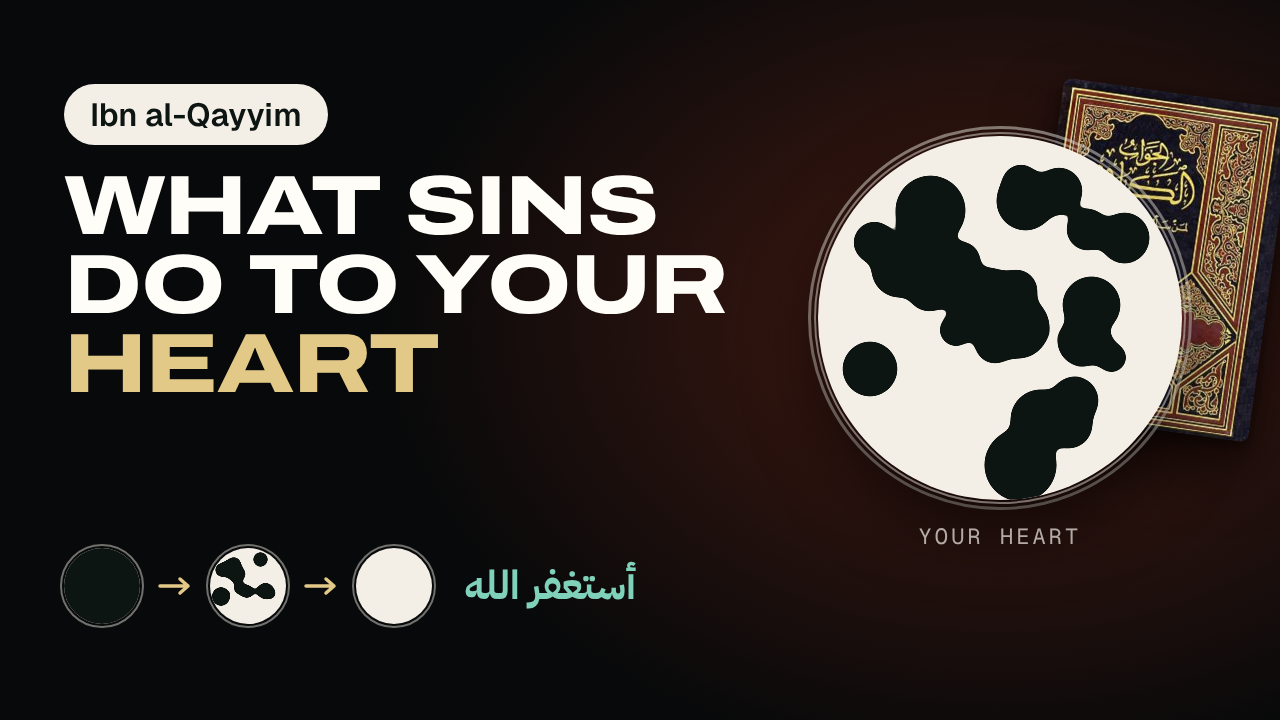
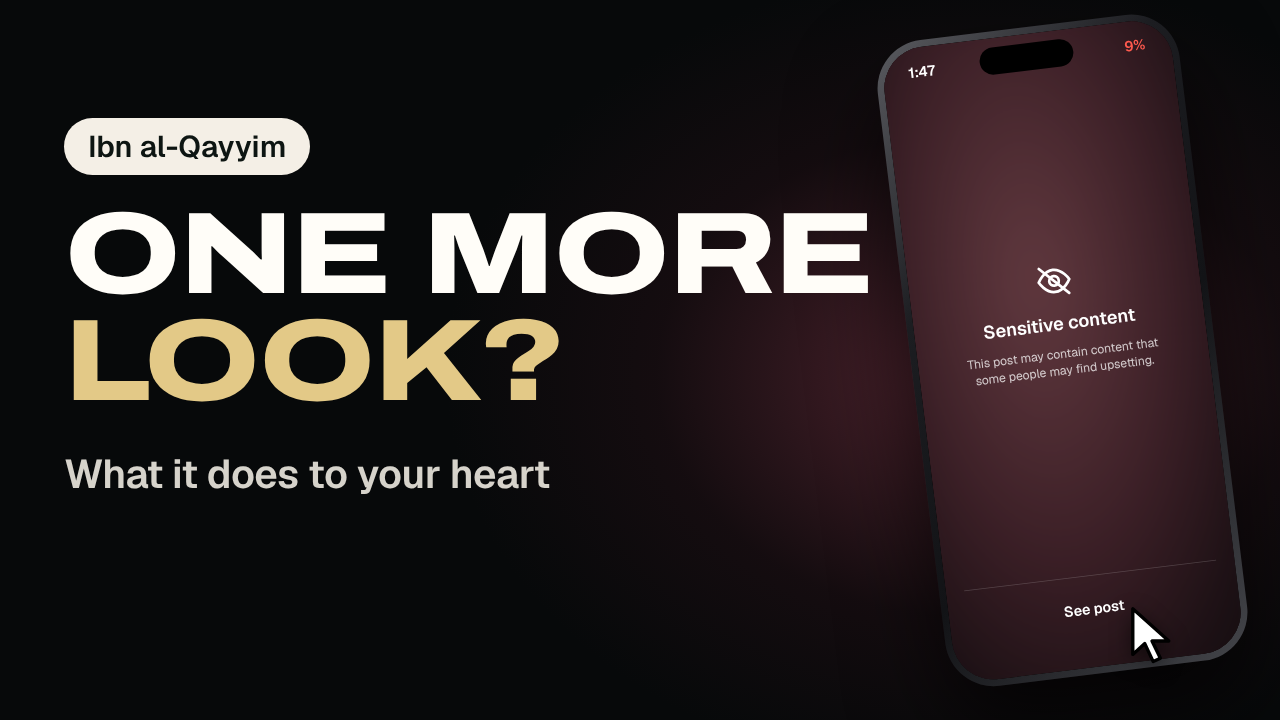
Lesson 2: new thumbnails ("One more look?" phone, "One sin. One spot." alternative)
Claude-Session: https://claude.ai/code/session_01MwErq7sJkoufLuD6bAktcb

diff --git a/src/lesson2/Thumb2.tsx b/src/lesson2/Thumb2.tsx
@@ -1,124 +1,94 @@
 import React from "react";
-import { AbsoluteFill, Img, staticFile } from "remotion";
+import { AbsoluteFill } from "remotion";
 import { C, F } from "../lib/theme";
-import { GooDefs } from "../ui/kit";
 import { NIGHT } from "../ui/Lids";
-import { HEART_C, HEART_R, SPOTS } from "./Heart";
+import { Post3 } from "./Night";
 
-/**
- * Lesson 2 thumbnail, 1280×720: the promise left, the stained heart (the film's own spots) right with the
- * real book behind it, and the way back along the bottom: covered → stained → polished.
- */
-const HC = { x: 1000, y: 318, r: 182 };
+/** Lesson 2 thumbnails, 1280×720. "look": the 1:47 a.m. phone. "spot": one sin, one black spot. */
+const WORD: React.CSSProperties = {
+  fontFamily: F.word,
+  fontWeight: 800,
+  fontVariationSettings: "'wdth' 125, 'wght' 800",
+  lineHeight: 0.92,
+  letterSpacing: "-0.02em",
+  color: C.white,
+};
 
-const Disc: React.FC<{ x: number; y: number; r: number; spots: number; full?: boolean; id: string; size?: number }> = ({ x, y, r, spots, full, id, size = 1 }) => {
-  const s = r / HEART_R;
+const Pill: React.FC<{ children: React.ReactNode }> = ({ children }) => (
+  <div style={{ display: "inline-block", background: C.paper, color: C.ink, fontFamily: F.ui, fontWeight: 600, fontSize: 30, padding: "9px 24px", borderRadius: 999 }}>{children}</div>
+);
+
+/** the film's phone: titanium frame, island, status bar at 1:47 with 9 %, the sensitive-content screen */
+const Phone: React.FC = () => {
+  const w = 400;
+  const h = 856;
+  const bez = 9;
   return (
-    <>
-    <div style={{ position: "absolute", left: x - r - 4, top: y - r - 4, width: r * 2 + 8, height: r * 2 + 8, borderRadius: r + 4, border: "2px solid rgba(244,239,230,0.45)", boxSizing: "border-box" }} />
-    <div style={{ position: "absolute", left: x - r, top: y - r, width: r * 2, height: r * 2, borderRadius: r, background: C.paper, overflow: "hidden" }}>
-      <GooDefs id={id} blur={3 + 3 * s} />
-      <div style={{ position: "absolute", inset: 0, filter: `url(#${id})` }}>
-        {full ? (
-          <div style={{ position: "absolute", inset: 0, borderRadius: r, background: C.ink }} />
-        ) : (
-          SPOTS.slice(0, spots).map((p, i) => {
-            const cx = r + (p.x - HEART_C.x) * s;
-            const cy = r + (p.y - HEART_C.y) * s;
-            const rr = p.r * s * size;
-            return <div key={i} style={{ position: "absolute", left: cx - rr, top: cy - rr, width: rr * 2, height: rr * 2, borderRadius: rr, background: C.ink }} />;
-          })
-        )}
+    <div style={{ position: "relative", width: w, height: h, borderRadius: 64, background: "linear-gradient(135deg, #5A5B60, #1C1D21 30%, #121316 60%, #44454A)", boxShadow: "0 60px 120px rgba(0,0,0,0.7)" }}>
+      <div style={{ position: "absolute", inset: bez, borderRadius: 64 - bez, overflow: "hidden", background: "#000" }}>
+        <Post3 />
+        <div style={{ position: "absolute", left: 0, right: 0, top: 0, height: 56, display: "flex", alignItems: "center", justifyContent: "space-between", padding: "8px 34px 0", fontFamily: F.ui, fontWeight: 600, fontSize: 19, color: "#fff" }}>
+          <span>1:47</span>
+          <span style={{ color: "#FF5A4E" }}>9%</span>
+        </div>
+        <div style={{ position: "absolute", left: w / 2 - bez - 62, top: 12, width: 124, height: 36, borderRadius: 18, background: "#000" }} />
       </div>
     </div>
-    </>
   );
 };
 
-export const Thumb2: React.FC = () => (
+const Cursor: React.FC<{ x: number; y: number; s?: number }> = ({ x, y, s = 1 }) => (
+  <svg style={{ position: "absolute", left: x, top: y, transform: `scale(${s})`, transformOrigin: "0 0", filter: "drop-shadow(0 4px 8px rgba(0,0,0,0.5))" }} width={40} height={52} viewBox="0 0 20 26">
+    <path d="M2 2 L2 21 L7 16.5 L10.5 24 L13.5 22.6 L10 15.4 L17 15.4 Z" fill="#fff" stroke="#000" strokeWidth={1.4} strokeLinejoin="round" />
+  </svg>
+);
+
+const Look: React.FC = () => (
   <AbsoluteFill style={{ background: NIGHT, overflow: "hidden" }}>
-    {/* the room at night: a low warm light from the right, like the screen-lit room in the film */}
-    <div style={{ position: "absolute", inset: 0, background: "radial-gradient(ellipse 70% 90% at 78% 45%, rgba(120,40,24,0.55), rgba(7,9,10,0) 70%)" }} />
-
-    {/* the real book behind the heart */}
-    <Img
-      src={staticFile("img/al-jawab-al-kafi.jpg")}
-      style={{
-        position: "absolute",
-        left: 1040,
-        top: 92,
-        width: 232,
-        height: 232 * 1.45,
-        objectFit: "cover",
-        borderRadius: 8,
-        transform: "rotate(8deg)",
-        boxShadow: "0 30px 60px rgba(0,0,0,0.6), 0 6px 14px rgba(0,0,0,0.4)",
-      }}
-    />
-
-    {/* the stained heart */}
-    <div style={{ position: "absolute", left: HC.x - HC.r - 10, top: HC.y - HC.r - 10, width: HC.r * 2 + 20, height: HC.r * 2 + 20, borderRadius: HC.r + 10, border: "3px solid rgba(244,239,230,0.5)", boxSizing: "border-box" }} />
-    <div style={{ position: "absolute", left: HC.x - HC.r, top: HC.y - HC.r, width: HC.r * 2, height: HC.r * 2, borderRadius: HC.r, boxShadow: "0 30px 70px rgba(0,0,0,0.6)" }} />
-    <Disc x={HC.x} y={HC.y} r={HC.r} spots={30} size={0.62} id="th-main" />
-    <div style={{ position: "absolute", left: HC.x - 200, width: 400, top: HC.y + HC.r + 22, textAlign: "center", fontFamily: F.mono, fontSize: 22, letterSpacing: "0.14em", color: "rgba(244,239,230,0.7)" }}>
-      YOUR HEART
+    {/* the screen lights the room */}
+    <div style={{ position: "absolute", inset: 0, background: "radial-gradient(ellipse 55% 75% at 76% 52%, rgba(150,62,82,0.5), rgba(60,22,32,0.25) 45%, rgba(7,9,10,0) 75%)" }} />
+    <div style={{ position: "absolute", left: 872, top: 46, transform: "rotate(-7deg) scale(0.76)", transformOrigin: "0 0" }}>
+      <Phone />
     </div>
+    <Cursor x={1128} y={604} s={1.2} />
 
-    {/* the promise */}
-    <div style={{ position: "absolute", left: 64, top: 84 }}>
-      <div
-        style={{
-          display: "inline-block",
-          background: C.paper,
-          color: C.ink,
-          fontFamily: F.ui,
-          fontWeight: 600,
-          fontSize: 32,
-          padding: "10px 26px",
-          borderRadius: 999,
-        }}
-      >
-        Ibn al-Qayyim
-      </div>
-      <div
-        style={{
-          marginTop: 22,
-          fontFamily: F.word,
-          fontWeight: 800,
-          fontVariationSettings: "'wdth' 125, 'wght' 800",
-          fontSize: 84,
-          lineHeight: 0.94,
-          letterSpacing: "-0.02em",
-          color: C.white,
-        }}
-      >
-        WHAT SINS
+    <div style={{ position: "absolute", left: 64, top: 118 }}>
+      <Pill>Ibn al-Qayyim</Pill>
+      <div style={{ ...WORD, marginTop: 26, fontSize: 116 }}>
+        ONE MORE
         <br />
-        DO TO YOUR
-        <br />
-        <span style={{ color: C.goldSoft }}>HEART</span>
+        <span style={{ color: C.goldSoft }}>LOOK?</span>
       </div>
-    </div>
-
-    {/* the way back: covered → stained → polished */}
-    <div style={{ position: "absolute", left: 64, top: 548, display: "flex", alignItems: "center", gap: 18 }}>
-      {[
-        { spots: 0, full: true },
-        { spots: 12, full: false },
-        { spots: 0, full: false },
-      ].map((d, i) => (
-        <React.Fragment key={i}>
-          {i > 0 && (
-            <svg width={34} height={20} viewBox="0 0 34 20">
-              <path d="M2 10 H30 M22 3 L30 10 L22 17" stroke={C.goldSoft} strokeWidth={3.5} fill="none" strokeLinecap="round" strokeLinejoin="round" />
-            </svg>
-          )}
-          <div style={{ position: "relative", width: 76, height: 76 }}>
-            <Disc x={38} y={38} r={38} spots={d.spots} full={d.full} id={`th-s${i}`} />
-          </div>
-        </React.Fragment>
-      ))}
-      <div style={{ marginLeft: 14, fontFamily: F.ar, fontWeight: 700, fontSize: 40, color: C.mint, lineHeight: 1.6 }}>أستغفر الله</div>
+      <div style={{ marginTop: 34, fontFamily: F.ui, fontWeight: 600, fontSize: 40, color: "rgba(244,239,230,0.88)", letterSpacing: "-0.01em" }}>
+        What it does to your heart
+      </div>
     </div>
   </AbsoluteFill>
 );
+
+const Spot: React.FC = () => {
+  const c = { x: 1036, y: 360, r: 190 };
+  return (
+    <AbsoluteFill style={{ background: NIGHT, overflow: "hidden" }}>
+      <div style={{ position: "absolute", inset: 0, background: "radial-gradient(ellipse 50% 70% at 75% 50%, rgba(244,239,230,0.08), rgba(7,9,10,0) 70%)" }} />
+      <div style={{ position: "absolute", left: c.x - c.r - 14, top: c.y - c.r - 14, width: c.r * 2 + 28, height: c.r * 2 + 28, borderRadius: c.r + 14, border: "3px solid rgba(244,239,230,0.35)", boxSizing: "border-box" }} />
+      <div style={{ position: "absolute", left: c.x - c.r, top: c.y - c.r, width: c.r * 2, height: c.r * 2, borderRadius: c.r, background: C.paper, boxShadow: "0 40px 90px rgba(0,0,0,0.6)" }} />
+      {/* one sin: one black spot */}
+      <div style={{ position: "absolute", left: c.x - 58 - 30, top: c.y + 44 - 30, width: 60, height: 60, borderRadius: 30, background: C.ink }} />
+
+      <div style={{ position: "absolute", left: 64, top: 130 }}>
+        <Pill>The hadith of the black spot</Pill>
+        <div style={{ ...WORD, marginTop: 26, fontSize: 108 }}>
+          ONE SIN.
+          <br />
+          <span style={{ color: C.goldSoft }}>ONE SPOT.</span>
+        </div>
+        <div style={{ marginTop: 34, fontFamily: F.ui, fontWeight: 600, fontSize: 40, color: "rgba(244,239,230,0.88)", letterSpacing: "-0.01em" }}>
+          What sins do to your heart
+        </div>
+      </div>
+    </AbsoluteFill>
+  );
+};
+
+export const Thumb2: React.FC<{ variant: "look" | "spot" }> = ({ variant }) => (variant === "look" ? <Look /> : <Spot />);

diff --git a/src/Root.tsx b/src/Root.tsx
@@ -13,7 +13,8 @@ export const RemotionRoot: React.FC = () => (
     <Composition id="Rise" component={Film} durationInFrames={TOTAL_FRAMES} fps={FPS} width={W} height={H} defaultProps={{ sfx: false }} />
     <Composition id="Lesson2" component={Film2} durationInFrames={TOTAL_FRAMES_2} fps={FPS} width={W} height={H} defaultProps={{ sfx: false }} />
     <Still id="Thumbnail" component={Thumbnail} width={1280} height={720} />
-    <Still id="Thumbnail2" component={Thumb2} width={1280} height={720} />
+    <Still id="Thumbnail2-look" component={Thumb2} width={1280} height={720} defaultProps={{ variant: "look" as const }} />
+    <Still id="Thumbnail2-spot" component={Thumb2} width={1280} height={720} defaultProps={{ variant: "spot" as const }} />
     <Still id="Banner" component={Banner} width={2560} height={1440} />
     <Still id="Pfp-ink" component={Pfp} width={800} height={800} defaultProps={{ variant: "ink" as const }} />
     <Still id="Pfp-emerald" component={Pfp} width={800} height={800} defaultProps={{ variant: "emerald" as const }} />

diff --git a/src/lesson2/Night.tsx b/src/lesson2/Night.tsx
@@ -77,7 +77,7 @@ const Post2: React.FC<{ t: number }> = ({ t }) => (
   </div>
 );
 /** The sensitive post: never shown — only the platform's warning over a heavy blur. */
-const Post3: React.FC = () => (
+export const Post3: React.FC = () => (
   <div style={{ position: "absolute", inset: 0, background: "#1A1013", overflow: "hidden" }}>
     <div style={{ position: "absolute", inset: -60, background: "radial-gradient(ellipse at 45% 40%, #9A5A62, #5A2E38 45%, #1E1216 80%)", filter: "blur(36px)" }} />
     <div style={{ position: "absolute", inset: 0, background: "rgba(10,8,10,0.38)" }} />

diff --git a/release/lesson2/YOUTUBE.md b/release/lesson2/YOUTUBE.md
@@ -2,7 +2,8 @@
 
 Files in this folder:
 - `Lesson2-What-Sins-Do-To-Your-Heart-1080p60.mp4`: the video (1920×1080, 60 fps, 1:04, −14 LUFS)
-- `thumbnail.png`: 1280×720 thumbnail
+- `thumbnail.png`: 1280×720 thumbnail ("One more look?", the 1:47 a.m. phone)
+- `thumbnail-alt.png`: alternative ("One sin. One spot."). Upload both with YouTube's Test & Compare and let it pick the winner
 - `captions-en.srt`: English captions (upload them; YouTube indexes captions for search)
 
 ## Title (pick one)
@@ -58,7 +59,7 @@ lowering the gaze, bilal ibn saad, deen, ummah
 ## Upload settings
 
 - Category: **Education**. Language: English. Caption language: English; upload `captions-en.srt`.
-- Thumbnail: `thumbnail.png`.
+- Thumbnail: `thumbnail.png` (or Test & Compare with `thumbnail-alt.png`).
 - Add it to the lesson playlist as Lesson 2, and use an end screen pointing to Lesson 1 and the playlist.
 - Publish in the evening (after Maghrib or ʿIshāʾ in your main time zone). The video is about the late-night
   scroll, so it lands when people are on their phones at night.
